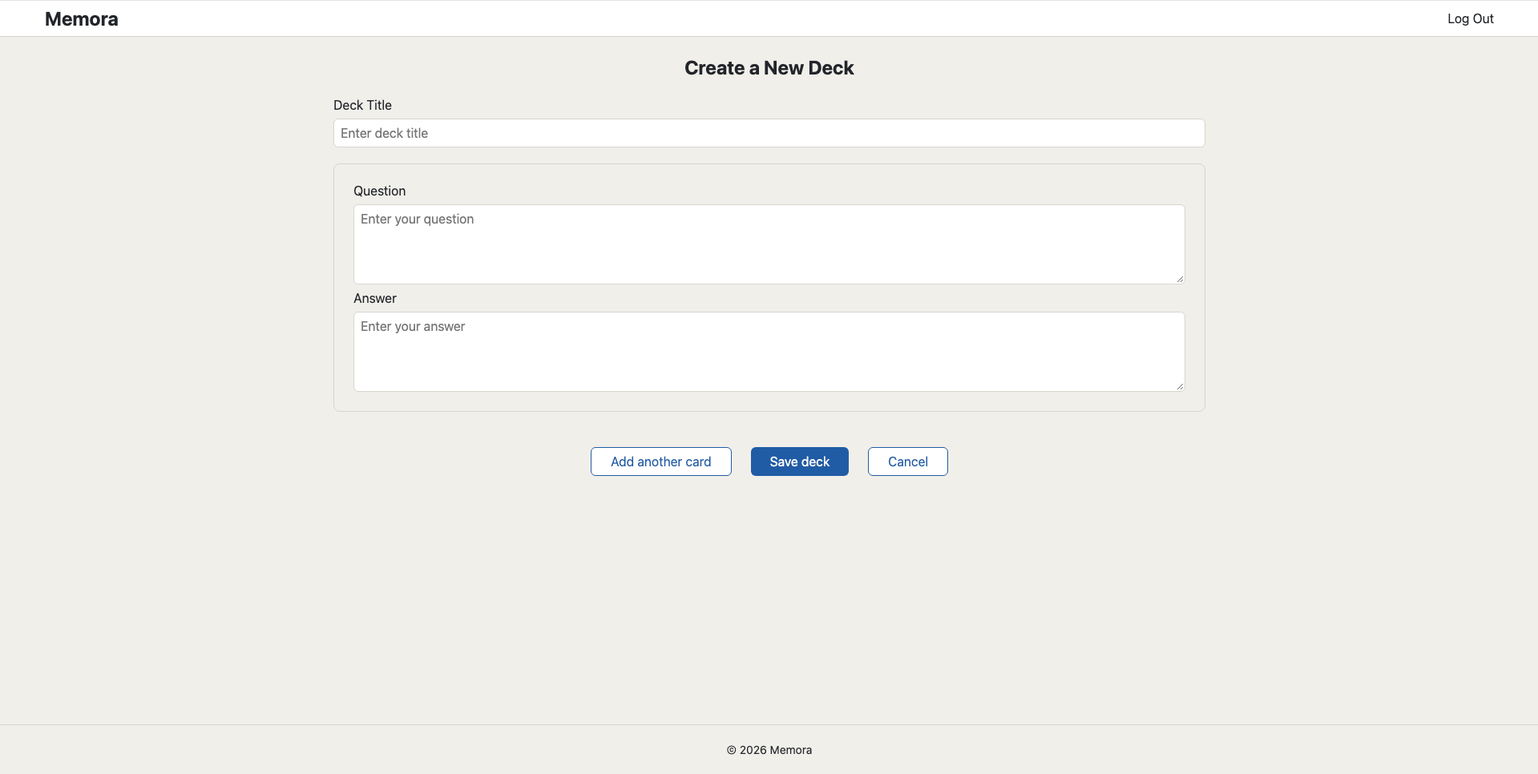
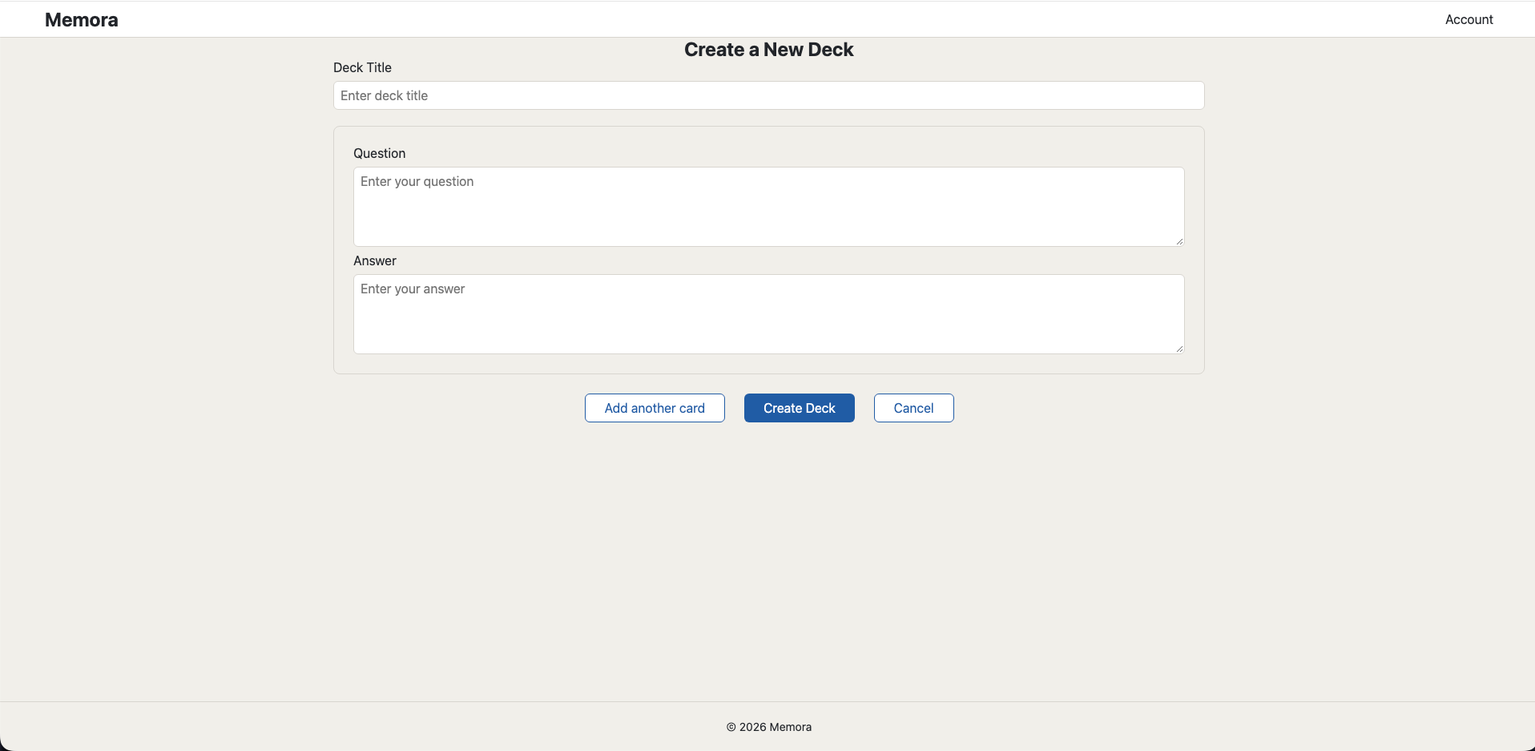
Fixing AI usage entries and restore files

diff --git a/AI-USAGE.md b/AI-USAGE.md
@@ -1,98 +1,117 @@
-# AI Usage
+# AI usage
 
-## Section 1 — AI-Assisted Development
+This project was built with AI assistance. This file is the record of it. It is
+graded as the finals badge, and it is worth 100 points.
 
-### Create Deck HTML Structure
+Start it in week 1 and keep it up as you go. The commit history of this file is
+part of the evidence: a file written all at once the night before the deadline
+looks exactly like what it is.
 
-- **AI Tool:** ChatGPT
-- **What I asked:** Help create the HTML structure for the Create Deck page.
-- **What it generated:** The basic page structure, including the deck title field, question and answer fields, card container, and buttons.
-- **What I changed/tested:** I tested the page and adjusted the structure as needed.
-- **Commit:** https://github.com/JoshPhilipPuangco/Memora/commit/c34cc32
+## 1. How I used AI
 
-### Create Deck CSS
+At least six entries. One per real use. Every entry needs a commit link.
 
-- **AI Tool:** ChatGPT
-- **What I asked:** Help create CSS for the Create Deck page.
-- **What it generated:** Styling for the title, form layout, and textareas.
-- **What I changed/tested:** I tested the layout in the browser and kept the page-specific styles in `create-deck.css`.
-- **Commit:** https://github.com/JoshPhilipPuangco/Memora/commit/c34cc32
+### 2026-09-22 - Home page build and review
 
-### Add Card JavaScript
+- **Tool:** Claude Code
+- **What I asked for:** I asked Claude to build the Home page for Memora as the reference pattern for the rest of the group. I gave it the site map, proposal, design system spec, and wireframes, and set the rules: no direct pushes to main, a two-file CSS split (shared.css for sitewide classes, a page-specific file for prefixed classes), and semantic HTML. I later asked for several rounds of fixes to match the wireframes more closely, a review against the course's concept coverage files, a sync check against the design system spec, and a final review before I pushed the branch myself.
+- **What it gave back:** It gave back index.html, shared.css, and home.css for the Home page, plus matching edits to Design-System-Specification.css to keep it in sync with shared.css. It added hover and active state transitions, a prefers-reduced-motion rule, and a --content-max-width token. It also ran html-validate and axe-core checks and compared screenshots against the wireframes at mobile and desktop sizes.
+- **What I kept, what I changed, and why:** I kept the two-file CSS structure and most of the layout as given. During the session I asked for the heading and intro text sizing to be fixed to match the wireframe, because the first version looked noticeably smaller than the wireframe at both mobile and desktop widths. I asked for the footer to stick to the bottom using flexbox because the wireframe shows it at the bottom of short pages, and it was not reaching the bottom on my screen. I asked for the button sizing on desktop to be reverted after trying a scoped override, because I decided the buttons should stay the same size as the shared button classes used everywhere else, instead of having a one-off size just for this page. I asked for the content to also be vertically centered, because the wireframe shows the heading, intro text, and buttons centered both ways, as a block sitting in the middle of the space between the nav bar and the footer, and the first version only had the horizontal centering.
+- **Commit:** https://github.com/JoshPhilipPuangco/Memora/commit/1fdc64d3c54b32dae52e19269b1b54c9a09ff4eb
 
-- **AI Tool:** ChatGPT
-- **What I asked:** Help make the Add another card button create a new card.
-- **What it generated:** JavaScript that creates a new card block and adds it to the card container.
-- **What I changed/tested:** I tested the button in the browser and fixed the initial issue where the new card was not being added.
-- **Commit:** https://github.com/JoshPhilipPuangco/Memora/commit/c34cc32
+### 2026-09-30 - Renaming the My Decks and Study Decks files
 
-### Dynamic Card Numbering
+- **Tool:** Claude Code
+- **What I asked for:** I asked Claude to rename the files of the My Decks and Study Decks pages so they follow the Create Deck naming style (dashes, "deck" spelled out), without breaking any page. I gave it a prompt file with the setup, the source files to read, and the old file names. I told it to work on the renaming-files branch. I said I would commit, push, and merge myself, so it only gave me the commands. I also asked for a note for my teammates about the new names.
+- **What it gave back:** It searched the whole repo for the old names first and made a plan before changing anything. It renamed the files with git mv (`mydecks` to `my-decks`, `study` to `study-decks`) and updated every link that used the old names: the CSS and JS tags, the logo and back links, and the Study button in my-decks.js. It also removed a script tag for a shared.js file that does not exist, and updated the README file names. It checked that no old names were left and that every link in the HTML and JS files points to a file that exists. It served the site locally and the new files loaded. After I merged, it wrote a note for my teammates.
+- **What I kept, what I changed, and why:** I kept the new names my-decks and study-decks, and I agreed to removing the shared.js tag. I changed the plan: I took back my earlier instruction to let Claude commit, push, and merge, because I wanted to do those steps myself, and I asked for the teammate note after the merge. I kept the CSS classes and IDs (like .mydecks-\*) unchanged, because they are not file names and changing them is riskier. Claude removed Known Issues 1 to 3 from the README because the rename fixed them, and I reviewed those README edits myself before I committed. Claude only ran an automated link check and a local server test, not a click-through in a real browser, so I tested the pages myself afterwards.
+- **Commit:** https://github.com/JoshPhilipPuangco/Memora/commit/9db43a0c5e2bf83efd94487c2dd6f33ac0c53a38
 
-- **AI Tool:** ChatGPT
-- **What I asked:** Help give dynamically created question and answer fields unique IDs.
-- **What it generated:** A `cardNumber` variable that increases whenever a new card is created.
-- **What I changed/tested:** I tested multiple cards and checked that their question and answer IDs were different.
-- **Commit:** https://github.com/JoshPhilipPuangco/Memora/commit/c34cc32
+### 2026-09-30 - Study Mode loads the clicked deck
 
-### Remove Card Functionality
+- **Tool:** Claude (web chat)
+- **What I asked for:** I uploaded the Study Mode files and the other site files and asked Claude to fix Study Mode. I said the HTML, CSS, and JS must be in separate files, and that it must not touch any file except the Study Mode ones. I told it the Back to My Decks link worked, but the page still showed a hardcoded deck. I said our professors told us to use JavaScript localStorage. I asked it to remove the placeholder deck and the Log Out button.
+- **What it gave back:** It gave back the Study Mode HTML and CSS files and a new JavaScript file for the page. The script reads the deck id from the URL, finds that deck in localStorage under the key `memora_decks`, and saves the Reviewed and Not Yet Reviewed marks back to localStorage. It also updates the "last studied" time. It shows a message if there is no deck or the deck has no cards. It removed the Log Out link from the nav bar. It also told me that the Create Deck script never saves a deck to localStorage, and it did not edit that script because I told it not to.
+- **What I kept, what I changed, and why:** I kept all three Study Mode files and copied them into my study-mode branch. I deleted the old Study Mode page files. 
+- **Commit:** https://github.com/JoshPhilipPuangco/Memora/commit/3d47d68d809d4aa299c246e1aba3edb6a1fe03cb
+### 2026-09-30 - Fixing the git pull error on my study-mode branch
 
-- **AI Tool:** ChatGPT
-- **What I asked:** Help add a Remove Card button for dynamically created cards.
-- **What it generated:** An event listener on the card container that removes the selected card.
-- **What I changed/tested:** I tested removing cards and fixed the initial issue caused by duplicate IDs.
-- **Commit:** https://github.com/JoshPhilipPuangco/Memora/commit/c34cc32
+- **Tool:** Claude (web chat)
+- **What I asked for:** I asked Claude what to do to push my Study Mode work and open a pull request, using our leader's rules. When `git pull origin main` failed, I sent Claude a screenshot of the error. Later I sent it a screenshot of a Vim swap file warning, the Vim merge message screen, and the `git status` output.
+- **What it gave back:** For the pull error, it explained that Git stopped because untracked files in my folder from the Create Deck, My Decks, and Study Mode pages would be overwritten by the ones on main. It told me to move those files into a backup folder, pull again, and copy only my Study Mode files back, not my teammates' files. For the Vim swap file warning from my unfinished merge on Sept 24, it told me to delete the old swap file and save the merge message with `:wq`. It then checked my `git status` screenshot and said only the Study Mode files had changed.
+- **What I kept, what I changed, and why:** I kept its steps because the error was about my local files and I did not want to lose any work. I did not copy my old Create Deck and My Decks files back, because those belong to my teammates and the versions on main are the right ones. 
+- **Commit:** https://github.com/JoshPhilipPuangco/Memora/commit/3d47d68d809d4aa299c246e1aba3edb6a1fe03cb
 
-### Form and Cancel Behavior
+## 2. Where the AI got it wrong
 
-- **AI Tool:** ChatGPT
-- **What I asked:** Help prevent the Create Deck form from reloading the page and make the Cancel button return to the previous page.
-- **What it generated:** A submit event listener using `preventDefault()` and a Cancel event listener using `history.back()`.
-- **What I changed/tested:** I tested both buttons in the browser.
-- **Commit:** https://github.com/JoshPhilipPuangco/Memora/commit/c34cc32
+Three cases. Be specific. If you write that the AI was never wrong, this section
+scores zero.
 
+### Case 1 - Said the My Decks JavaScript followed the course coverage, but it did not
 
-## Section 2 — AI Mistakes / Cases Where AI Output Was Not Used Directly
+- **What it gave me:** When Claude built the My Decks page, it told me its JavaScript stayed "within Modules 8 to 11 or the existing code". The version of my-decks.js it wrote used createElement, className, append, appendChild, the hidden property, Boolean(), encodeURIComponent() and a self-running function wrapper around the whole file. Claude did not point any of this out. I found it myself by reading through my-decks.js by hand and comparing what it used with the Concept Coverage files, and those calls are not in them.
+- **What was wrong with it:** My rule from the start was that the code must stay strictly within what the Concept Coverage files discuss. When I asked Claude to check, it searched those files and none of those calls appear in the four JavaScript files, which matched what I had seen, so its claim was false. It had also agreed to avoid extra calls whenever a covered way existed. A covered way did exist: Module 10 builds a list by putting a string into innerHTML and uses textContent for text a user typed. Claude kept the old calls anyway and described them as things the existing repo code already used. It only found the problem when I asked whether the files were within coverage.
+- **What I did instead:** I asked Claude to review the HTML, CSS and JS against the Concept Coverage files, and I chose the "strict where it is cheap" option. Claude rewrote my-decks.js so render() builds the page from the deck array with innerHTML and sets the deck titles afterwards with textContent. The empty state and the delete confirmation are written in the same way, so createElement, className, append, appendChild, hidden, Boolean(), encodeURIComponent() and the wrapper are gone. A few calls stay on purpose and are listed as outside the coverage: .focus() (I asked to keep it), window.location.href for the login redirect, Array.isArray, and e.key and e.target for the Escape key and clicking outside the modal. localStorage, JSON and URLSearchParams were already agreed as exceptions.
+- **Commit:** https://github.com/JoshPhilipPuangco/Memora/commit/ab5ab7759131727d2d76a51a1e694f765e3552fc (Claude's first version of my-decks.js was never committed, because I found the problem before committing. The older my-decks.js in this repository came from an earlier commit (https://github.com/JoshPhilipPuangco/Memora/commit/81f0804e5cbd5852ac488d31b1d0ee64f45cb2f3) and used createElement 7 times. This commit replaces that older file with the final version that uses innerHTML and textContent, so the diff shows createElement going away. Claude's false claim about the coverage is only in my session with Claude, not in the commit.)
 
-### Case 1 - My Decks JavaScript Outside Course Coverage
+### Case 2 - Study Mode script used JavaScript outside the course coverage
 
-- **What it gave me:** JavaScript functionality for the My Decks page that used concepts beyond what was covered in the course.
-- **What was wrong with it:** The implementation was more advanced than the JavaScript concepts required for the course.
-- **What I did instead:** The code was reviewed and adjusted to use concepts that could be explained using the course material.
+- **What it gave me:** Claude wrote the JavaScript for the Study Mode page. It uses a self-running function around the whole script, `'use strict'`, the hidden property, `Array.isArray`, `classList.toggle`, `setAttribute`, `e.key`, and `Date.now()`. Claude did not say that any of this might be outside the Concept Coverage files. 
+- **What was wrong with it:** Our rule is that the code must stay within the Concept Coverage files. 
+- **What I did instead:** I asked Claude to rewrite the Study Mode script so it only uses methods that are in the Concept Coverage files. It took out the self-running function wrapper, the hidden property, Array.isArray, and Date.now(), and the page now shows and hides its parts in a covered way. I checked the new script against the Concept Coverage files and tested the page in the browser.
+- **Commit:** https://github.com/JoshPhilipPuangco/Memora/commit/3d47d68d809d4aa299c246e1aba3edb6a1fe03cb
 
-### Case 2 - Study Mode Script Outside Course Coverage
+## 3. Who wrote what
 
-- **What it gave me:** A JavaScript implementation for loading a selected deck in Study Mode.
-- **What was wrong with it:** Some of the implementation used JavaScript concepts that were outside the course coverage.
-- **What I did instead:** The implementation was reviewed and kept understandable using concepts that could be explained by the group.
+At least a fifth of this project is code you wrote yourself. Name it, and explain
+it in your own words.
 
-### Case 3 - Incorrect Form Selector
-
-- **What it gave me:** An incorrect way of selecting the form using the element ID selector format.
-- **What was wrong with it:** The form uses the class `create-deck-form`, so the selector needs to use `querySelector` with `.create-deck-form`.
-- **What I did instead:** I used `document.querySelector(".create-deck-form")`.
-- **Commit:** https://github.com/JoshPhilipPuangco/Memora/commit/c34cc32
-
-
-## Section 3 — Individual Contributions
+> Group projects: give each member their own heading below, and use your GitHub
+> handle as the heading. You are graded on your own section.
 
 ### JoshPhilipPuangco
 
 #### Written by me
 
-##### Home Page
+##### Login/Signup page markup
 
-- **File:** `index.html`
-- **What it does and why it is built this way:** This file creates the main Home page of Memora and provides navigation to the other parts of the application.
+- **File:** Memora/login.html
+- **Commit:** [ef717c4](https://github.com/JoshPhilipPuangco/Memora/commit/ef717c4599e870d2a027a74067d2236730ad841a) (This commit holds both files. login.html is the one I wrote. Claude is listed as co-author because login.js in the same commit was mostly AI-written.)
+- **What it does and why it is built this way:** This file is the HTML for the Login and Sign Up page. It is one page with two forms inside it, a login form and a signup form, instead of two separate pages. A pair of buttons at the top, the tab switcher, show one form and hide the other, using the hidden attribute, so the user never sees both at once and the page never reloads when they switch. Each form has a short note that says which fields are required, labels with a red asterisk on each required field, and an empty paragraph where an error message can be shown. The signup form also has a short helper line under each field that explains the rule for that field, such as the minimum length for the password.
 
-##### My Decks
+  Both forms have the novalidate attribute, which turns off the browser's own pop-up validation, so the JavaScript file the AI wrote mostly (login.js) is the only thing that checks the input and shows error text. Every input, form, and error paragraph has an id, because login.js finds them with getElementById and uses them to read what the user typed and to save or check the account in localStorage. If an id here is changed without changing login.js to match, the matching lookup in login.js would stop working. Lastly, the novalidate attribute and the hidden attribute are not in Module 5 (Tables and Forms), which only covers required, type, pattern, minlength, and maxlength for the browser's built in validation. These two were not discussed in class, so outside research on MDN was needed to learn what they do and how to use them.
 
-- **File:** `my-decks.html`
-- **What it does and why it is built this way:** This file provides the page where users can view their available decks and access the study functionality.
+#### The AI-written part I understand best
 
-##### Study Mode
+##### Login/Signup validation and tab logic
 
-- **File:** `study-mode.html`
-- **What it does and why it is built this way:** This file provides the interface for studying flashcards from a selected deck.
+- **File:** Memora/login.js
+- **Commit:** [ef717c4](https://github.com/JoshPhilipPuangco/Memora/commit/ef717c4599e870d2a027a74067d2236730ad841a)
+- **What it does and why we kept it:** This file is the JavaScript for the Login and Sign Up page. It finds the tab buttons, the two forms, the two error paragraphs, and all five inputs by id. The showTab function switches the class on the tab buttons and the hidden property on the two forms, so only one form shows at a time, and it clears both error messages every time the tab changes.
+
+  The initTabFromHash function reads the page's URL hash when the page loads and picks the signup tab if the hash is #signup, so the Sign Up button on the Home page can open straight to that tab. The three isXValid functions check the username, email, and password by hand, using character loops, includes, and indexOf, instead of a regular expression, because the course has not covered RegExp. getAccount, saveAccount, and setCurrentUser read and write to localStorage with JSON.stringify and JSON.parse, since this project has no server and localStorage was agreed as an allowed exception. handleSignup and handleLogin run when a form is submitted. They call event.preventDefault() so the page does not reload, read the typed values, run them through the checks in order, and either show an error message or save the account and send the user to my-decks.html. We kept this file because it covers the whole signup and login flow in a way I can trace end to end, and most of it uses array and string methods already taught in class.
+    
+  A few parts (className, the hidden property, event.preventDefault(), and location.hash) are not in the Concept Coverage files, so I looked them up myself to understand them before accepting the code. I kept them in login.js, but I had className and the hidden property removed from my-decks.js (see Case 1). The reason is that the login page works in a different way. It is one page with two forms, and it must switch between them without a reload. event.preventDefault() stops the page from reloading when a form is submitted. location.hash lets the Sign Up button on the Home page open the page on the signup tab. The hidden property switches between two forms that are already in the HTML, so the page does not have to rebuild them. I did not find a way in the Concept Coverage files to prevent the reload, read the hash, or switch between two existing forms. className is the weakest case. It changes which tab button looks active when showTab runs, and initTabFromHash decides which tab shows first. I did not look for a covered way to do what className does. login.js was merged before the coverage review in Case 1, and after the review I decided to keep it for the reasons above.
+
+### Tsuyin06
+
+#### Written by me
+
+##### Create Deck page script
+
+- **File:** The JavaScript file for the Create Deck page
+- **Commit:** [3d47d68](https://github.com/JoshPhilipPuangco/Memora/commit/3d47d68d809d4aa299c246e1aba3edb6a1fe03cb)
+- **What it does and why it is built this way:** This script runs the Create Deck page. At the top it finds the form, the Add another card button, the card container, and the Cancel button by their ids. A counter called cardNumber starts at 1, because the first card is already written in the HTML. When I click Add another card, the counter goes up and the script builds a new card block with a Question box and an Answer box. Each box gets an id with the counter in it, like question-2 and answer-2. I did this because every label must match the id of its own box, and two boxes cannot have the same id. The new block also has a Remove Card button. The first card has no remove button on purpose, so a deck always has at least one card. For removing, I put one click listener on the container that holds all the cards, instead of one on each button. The buttons for new cards do not exist when the page loads, so a listener on each one would miss them. The listener checks if the thing I clicked has the remove-card class, and if it does, it removes that card block. Cancel sends the user back to the last page with history.back(). On submit, event.preventDefault() stops the page from reloading, and the user is sent to the My Decks page.
+
+#### The AI-written part I understand best
+
+##### Study Mode deck loading and flashcard logic
+
+- **File:** The JavaScript file for the Study Mode page
+- **Commit:** [3d47d68](https://github.com/JoshPhilipPuangco/Memora/commit/3d47d68d809d4aa299c246e1aba3edb6a1fe03cb)
+- **What it does and why we kept it:** This script runs the Study Mode page. When the page loads, the init function reads the deck id from the URL with URLSearchParams, because the Study button on My Decks sends the id in the link. It loads the list of decks from localStorage under the key `memora_decks` with JSON.parse, and uses find to get the deck with that id. If there is no id, no deck, or the deck has no cards, the showMessage function hides the flashcard and the buttons and shows a short message, so the page does not break.
+
+  If the deck has cards, the page shows one card at a time. Clicking the card or pressing Enter or Space runs flipCard, which adds or removes the is-flipped class. The Mark Reviewed and Mark Not Yet Reviewed buttons run setReviewed, which changes the card, saves all the decks back to localStorage with JSON.stringify, and updates the progress text. The Previous and Next buttons run goTo, which changes the card number and shows the new card. We kept this script because it keeps the JavaScript out of the HTML, it reads real deck data, and I can follow it from the click on My Decks to the card on screen. 
 
 ### CharlesM-27
 
@@ -123,17 +142,3 @@
 - **File:** `create-deck.js`
 - **Commit:** https://github.com/JoshPhilipPuangco/Memora/commit/c34cc32
 - **What it does and why we kept it:** The JavaScript creates new card sections when Add another card is clicked. The `cardNumber` variable increases so each new question and answer gets a unique ID. The Remove Card event listener allows dynamically created cards to be removed. I tested these functions in the browser and understand how the event listeners, DOM elements, and card container work together.
-
-### Tsuyin06
-
-#### Written by me
-
-##### Create Deck Page Script
-
-- **File:** `create-deck.js`
-- **What it does and why it is built this way:** The script handles the Create Deck page interactions, including adding and removing cards and handling the form buttons.
-
-##### Study Mode Deck Loading
-
-- **File:** `study-mode.js`
-- **What it does and why it is built this way:** The script loads the selected deck into Study Mode so that the user can study the flashcards from the chosen deck.

diff --git a/README.md b/README.md
@@ -27,8 +27,8 @@ The usual flow is: Home, then Log In / Sign Up, then My Decks. From My Decks, a 
 | **Home** (`index.html`)              | Intro to Memora with Log In / Sign Up buttons and a footer.                                                                                                                                                                                   | "Log In" opens Log In / Sign Up. "Sign Up" opens the same page on the Sign Up tab (`login.html#signup`).                                                                   | None.                                                                                                                                                                                                                                                                                                                                                                                                            |
 | **Log In / Sign Up** (`login.html`)  | One page with a Log In tab and a Sign Up tab. Switching tabs shows the matching form. Fields are checked before saving (username 6+ characters with only letters, numbers, and `_`; valid email format; password 6+ characters). Error messages show in a red line. The Log In tab has email and password fields. The page checks them against the saved account and shows "Incorrect email or password" if they do not match.                                                  | On success, the user is sent to My Decks. The logo or "Back to Home" link returns to Home.                                                                                  | `login.js` switches tabs, checks the fields, and saves the account and the current user to `localStorage`. If the URL ends with `#signup`, the Sign Up tab opens first. Only one account is supported per browser, by design. The password is saved as plain text, which is fine for a class project but not safe for a real app.                                                                              |
 | **My Decks** (`my-decks.html`)       | Shows the student's decks as cards. Each card has a title link, a progress summary (total, reviewed, not yet reviewed), an "Edit" link, and a "Delete" button. Delete opens a confirmation pop-up. If there are no decks, an empty message and a "+ Create Deck" button show instead. Anyone who is not logged in is sent to Log In. | Clicking a deck title opens Study Mode for that deck. "Edit" opens that deck in Create Deck. "+ Create Deck" opens a blank Create Deck.                                     | `my-decks.js` checks that a user is logged in, then draws the decks from `localStorage`. The page is rebuilt from the saved decks after every change. The delete pop-up closes on "Cancel", on a click outside the box, or on the `Escape` key. "Delete" removes the deck and redraws the page.                                                                                                                     |
-| **Create Deck** (`create-deck.html`) | Lets a student name a new deck and add question/answer cards, with buttons to add or remove individual cards before saving. A deck must keep at least one card. The same page works as the Edit Deck page.                                     | "Cancel" returns to the previous page without saving. "Save deck" saves the deck and returns to My Decks. The logo also returns to My Decks.                                | `create-deck.js` adds and removes card fields, each with a unique ID. Every saved card also gets its own card ID, which editing keeps. With no `?deck=` in the URL, it starts empty (Create mode). With `?deck=<id>`, it fills the form from `localStorage` and saves changes to that deck (Edit mode). In Edit mode, the heading changes to "Edit Deck" and the button changes to "Save changes". Editing keeps each card's reviewed mark. If the title, a question, or an answer is empty (or only spaces), a red message shows above the buttons, the empty field gets a red border, and nothing is saved.                                                              |
-| **Study Mode** (`study-decks.html`)  | Shows one deck's cards one at a time: a title with a progress summary, a flip card that shows the question first and flips to the answer on click, and buttons to mark a card reviewed or not reviewed and move to the next or previous card. Marking a card moves on to the next unmarked card and the marked button turns dark. Once every card in the round has been marked, a pop-up asks what to do next: review only the not-yet-reviewed cards or reset the deck's progress (or, when every card is reviewed, just whether to reset). The same pop-up shows when a deck that already has progress is opened. | "Back to My Decks" returns to My Decks. The logo also returns to My Decks.                                                                                                  | `study-decks.js` reads the `?deck=<id>` from the URL and loads that deck from `localStorage`. It saves each card's reviewed mark and the last studied date back to the deck, matching each mark to the saved card with the same card ID, so edits made to the deck in another tab are kept and a mark never lands on the wrong card. Decks saved before cards had IDs get them the first time they are studied. If there is no deck ID, the deck is not found, or the deck has no cards, it shows a message instead of the flip card. The card can also be flipped with Enter or Space. Studying runs in rounds: a list of card positions and a matching list of true/false marks. A round is finished when every mark is true. The pop-up closes on its buttons, on a click outside the box, or on the `Escape` key. "Reset progress" sets every card back to not reviewed. "Review" starts a new round with only the not-yet-reviewed cards. |
+| **Create Deck** (`create-deck.html`) | Lets a student name a new deck and add question/answer cards, with buttons to add or remove individual cards before saving. A deck must keep at least one card. The same page works as the Edit Deck page.                                     | "Cancel" returns to the previous page without saving. "Save deck" saves the deck and returns to My Decks. The logo also returns to My Decks.                                | `create-deck.js` adds and removes card fields, each with a unique ID. With no `?deck=` in the URL, it starts empty (Create mode). With `?deck=<id>`, it fills the form from `localStorage` and saves changes to that deck (Edit mode). In Edit mode, the heading changes to "Edit Deck" and the button changes to "Save changes". Editing keeps each card's reviewed mark. The browser blocks empty titles, questions, and answers before saving.                                                              |
+| **Study Mode** (`study-decks.html`)  | Shows one deck's cards one at a time: a title with a progress summary, a flip card that shows the question first and flips to the answer on click, and buttons to mark a card reviewed or not reviewed and move to the next or previous card. | "Back to My Decks" returns to My Decks. The logo also returns to My Decks.                                                                                                  | `study-decks.js` reads the `?deck=<id>` from the URL and loads that deck from `localStorage`. It saves each card's reviewed mark and the last studied date back to the deck. If there is no deck ID, the deck is not found, or the deck has no cards, it shows a message instead of the flip card. The card can also be flipped with Enter or Space. |
 
 ## 4. Project structure
 
@@ -60,7 +60,7 @@ Each page loads `shared.css` plus its own page-specific CSS file. `style.css` an
 | --- | ----------------------------------------------------------------------------------------------------------------------------------------------------------------------------------------------------- | ---------------------------------------------------------------------------------------------------------------------------- |
 | 1   | The "Log Out" link goes to Home but does not clear the logged-in user.                                                                                                                                | Clear the current user from `localStorage` on log out.                                                                       |
 | 2   | Create Deck and Study can still be opened directly by URL without logging in first. (My Decks already checks.)                                                                                       | Add the same login check at the top of each of those pages' JavaScript.                                                      |
-| 3   | After studying a deck, the browser's own Back button can show My Decks with the old progress numbers, because My Decks only draws its list when the page first loads. (The "Back to My Decks" link on Study Mode is not affected.) | Make My Decks draw its list again whenever the page is shown, for example when it is restored by the Back button. |
+| 3   | On the Create Deck / Edit Deck page, the heading sits tight against the nav bar and the Remove Card buttons stretch full width (desktop and mobile), and the button row touches the footer (desktop). | Adjust the spacing in `create-deck.css`: room above the heading and below the buttons, and Remove Card at its natural width. |
 
 ## AI use
 
